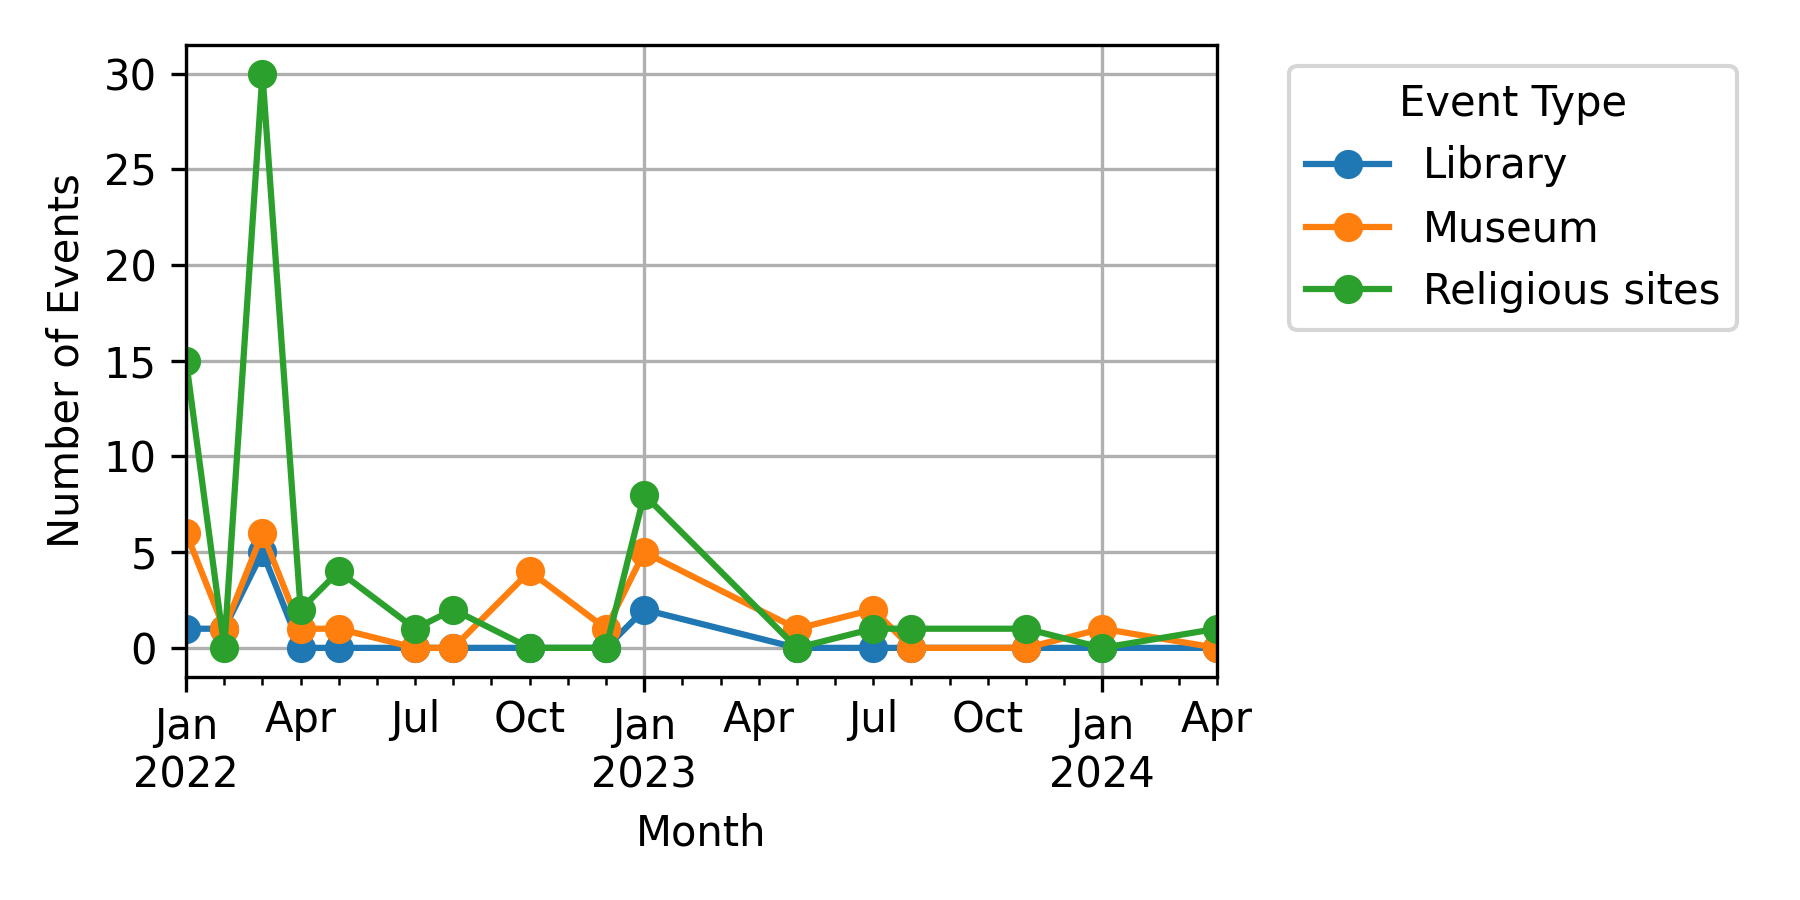
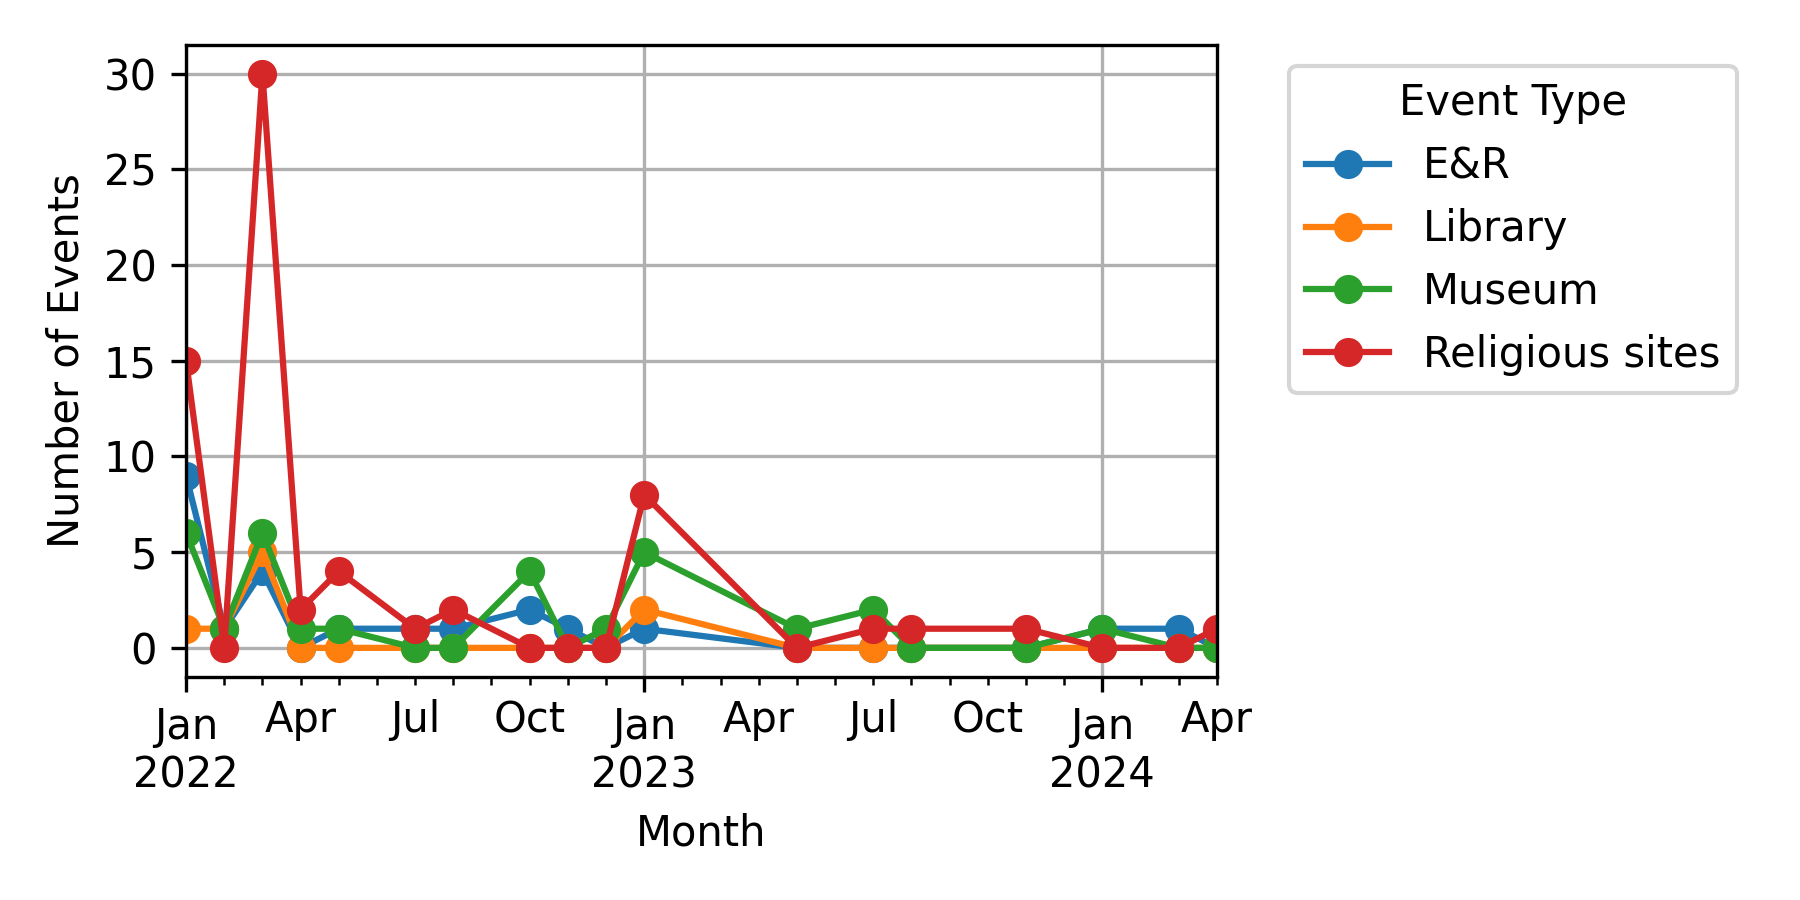
add education and research

diff --git a/plot/plot.py b/plot/plot.py
@@ -20,6 +20,7 @@ filtered_data['YearMonth'] = filtered_data['EventDate'].dt.to_period('M')
 selected_types = [
     'https://linked4resilience.eu/data/library', 
     'https://linked4resilience.eu/data/museum', 
+    'https://linked4resilience.eu/data/education', 
     'https://linked4resilience.eu/data/religious-site'
 ]
 filtered_selected_data = filtered_data[filtered_data['EventType'].isin(selected_types)]
@@ -34,6 +35,7 @@ selected_grouped_data.plot(kind='line', marker='o', figsize=(6, 3))
 # Define a mapping from the old labels (URLs) to new labels
 label_mapping = {
     'https://linked4resilience.eu/data/library': 'Library',
+    'https://linked4resilience.eu/data/education': 'E&R',
     'https://linked4resilience.eu/data/museum': 'Museum',
     'https://linked4resilience.eu/data/religious-site': 'Religious sites'
 }
